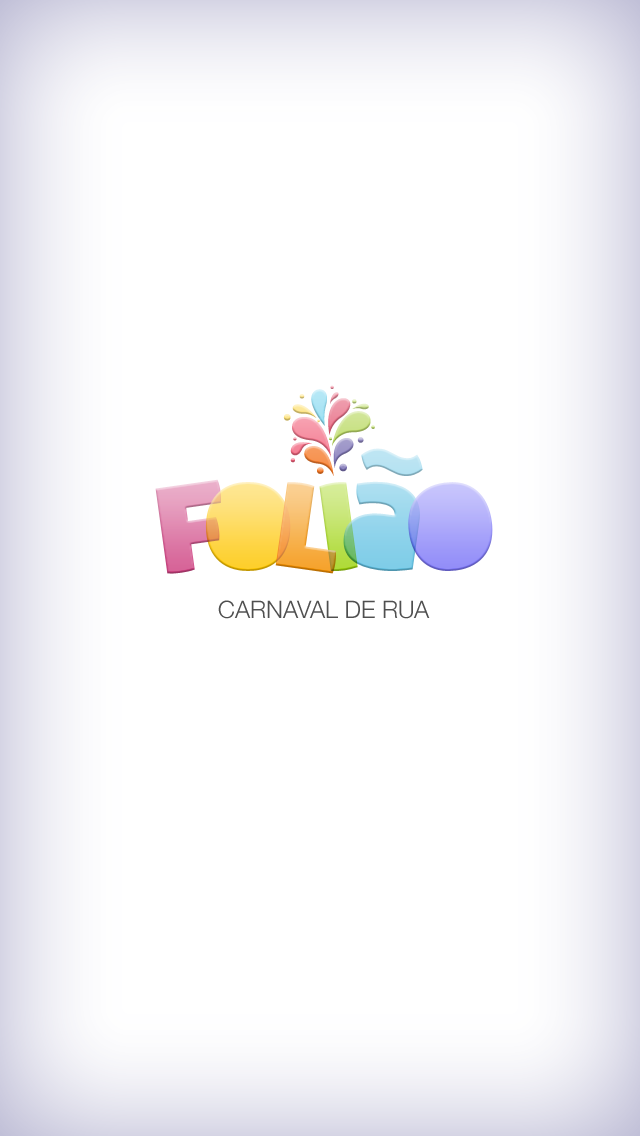
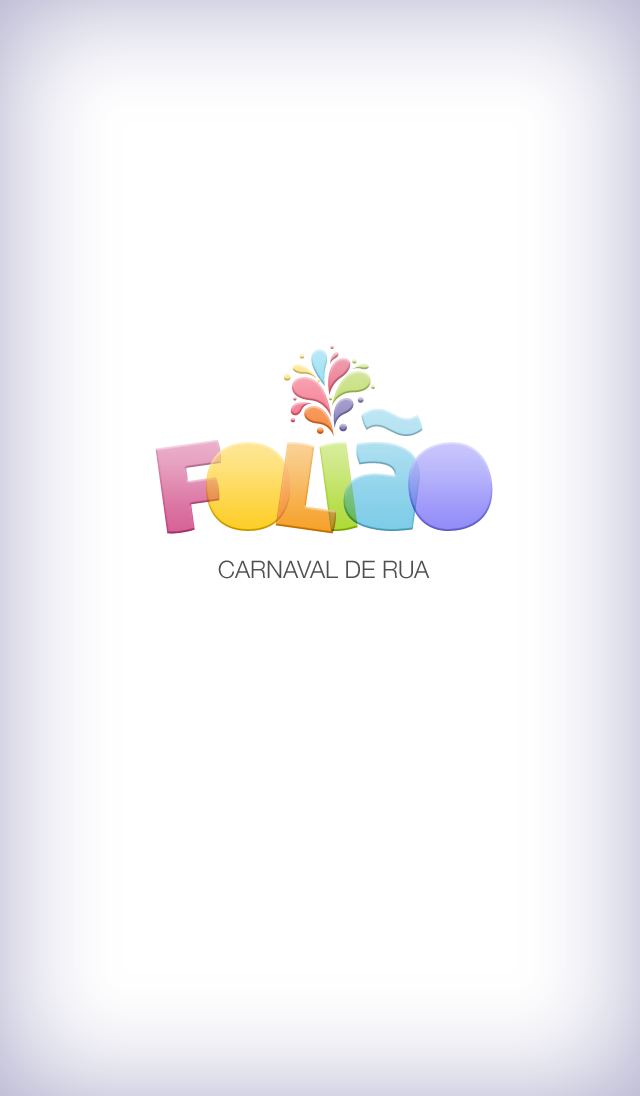
Some fixes and Default png adjustments.

Changed region(s): [[0.2188, 0.3102, 0.7812, 0.5584]]

diff --git a/Foliao/Controllers/BlocosByLocationViewController.m b/Foliao/Controllers/BlocosByLocationViewController.m
@@ -12,6 +12,7 @@
 #import "MapSettingsViewController.h"
 #import "ParadeViewController.h"
 #import "ParadeAnnotation.h"
+#import "DateUtil.h"
 
 
 @interface BlocosByLocationViewController(){
@@ -21,6 +22,7 @@
     BOOL locationLoaded;
 }
 
+@property (strong, nonatomic) NSMutableArray *parades;
 @property (strong, nonatomic) IBOutlet MKMapView *mapView;
 @property (strong, nonatomic) IBOutlet UIButton *buttonLocateMe;
 
@@ -38,6 +40,8 @@
 - (void)viewDidLoad
 {
     [super viewDidLoad];
+    
+    self.parades = [NSMutableArray array];
     
     self.mapView.userLocation.title = @"Tô pulando por aqui!";
     self.mapView.accessibilityLabel = @"Mapa de blocos";
@@ -102,17 +106,21 @@
     
     PFQuery *query = [PFQuery queryWithClassName:@"Parade"];
     [query whereKey:@"location" withinGeoBoxFromSouthwest:southwest toNortheast:northeast];
+    [query whereKey:@"date" greaterThanOrEqualTo:[DateUtil todaysMidnight]];
     [query includeKey:@"bloco"];
     [query findObjectsInBackgroundWithBlock:^(NSArray *objects, NSError *error) {
         if (!error) {
-            id userLocationAnnotation = self.mapView.userLocation;
-            NSMutableArray *annotations = [NSMutableArray arrayWithArray:self.mapView.annotations];
-            [annotations removeObject:userLocationAnnotation];
-            [self.mapView removeAnnotations:annotations];
-            
             for (PFObject *parade in objects) {
-                ParadeAnnotation *annotation = [[ParadeAnnotation alloc] initWithParade:parade];
-                [self.mapView addAnnotation:annotation];
+                BOOL alreadExists = NO;
+                for (PFObject *existentParade in self.parades) {
+                    if ([parade.objectId isEqualToString:existentParade.objectId])
+                        alreadExists = YES;
+                }
+                if (!alreadExists) {
+                    ParadeAnnotation *annotation = [[ParadeAnnotation alloc] initWithParade:parade];
+                    [self.mapView addAnnotation:annotation];
+                    [self.parades addObject:parade];
+                }
             }
         }
     }];

diff --git a/Foliao/FoliaoCell.m b/Foliao/FoliaoCell.m
@@ -29,7 +29,7 @@
     self.labelName.textColor = [UIColor colorWithRed:68/255.0 green:68/255.0 blue:68/255.0 alpha:1];
     self.accessoryView = [[UIImageView alloc] initWithImage:[[ThemeManager currentTheme] accessoryViewImage]];
     
-    [self.imageViewProfile setImageWithURL:[self foliaoImageURL] placeholderImage:[UIImage imageNamed:@"default"]
+    [self.imageViewProfile setImageWithURL:[self foliaoImageURL] placeholderImage:[UIImage imageNamed:[NSString stringWithFormat:@"avatar-%@", _foliao[@"gender"]]]
       success:^(UIImage *image, BOOL cached) {
       
           self.imageViewProfile.layer.cornerRadius = 3.0;

diff --git a/Foliao/LoginViewController.m b/Foliao/LoginViewController.m
@@ -35,7 +35,7 @@
     }
     
     UIImageView *bgImageView = [[UIImageView alloc] initWithImage:backgroundImage];
-    bgImageView.frame = CGRectMake(0, -20, backgroundImage.size.width, backgroundImage.size.height);
+    bgImageView.frame = CGRectMake(0, 0, backgroundImage.size.width, backgroundImage.size.height);
     [self.view insertSubview:bgImageView belowSubview:self.buttonLogin];
     
     self.buttonLogin.alpha = 0;
